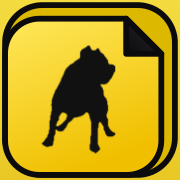
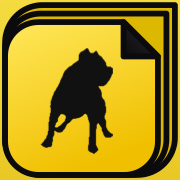
The split pill, his new bubble copy, and two pages behind
Three of his from 2026-08-14.

The bar is a yellow-and-black pill now: "the left side is a yellow bar
with BEASTY in black font and the right side just the way it is." Each
half owns its colours rather than one background being painted over, so
the seam lands exactly between the two words at any size.

It needed the black perimeter he had asked to see on the mark, and not
as decoration — this pill sits on the yellow landing screen, so a yellow
half against a yellow page has no edge at all. Without it the shape read
as a black tag with the word BEASTY floating loose to its left. A ring
rather than a border, so it costs no layout.

The bubble carries his rewrite near enough verbatim, and the domain
moved into it: "eliminate it completely on the yellow pages for each
city... as long as it's on the landing page somewhere", then "put it in
the centre of the drop-down bubble". So BEASTYPAGES.COM is off all
forty-four city sheets and sits centred under a rule at the foot of the
bubble instead. The yellow-Y wordplay went with it; the rule is kept in
styles.css if the domain ever returns to a page.

The gem is the drawn one, not the emoji he typed, for the same reason
the member card uses it: an emoji renders as a different object on every
platform and this one means a membership tier.

And the icon has two pages behind the front one, closer together — his
13:00 note. STEP is 5 rather than 8 for the "closer" half of it. They
[…]

diff --git a/src/apps/dialer/PagesMark.tsx b/src/apps/dialer/PagesMark.tsx
@@ -20,7 +20,7 @@
  */
 
 /**
- * TWO LAYERS INSIDE ONE ICON — not two icons overlapping.
+ * LAYERS INSIDE ONE ICON — not several icons overlapping.
  *
  * The operator's correction: "make it as one icon, like two layers, but still
  * inside one icon." The version before this offset both sheets so their union
@@ -37,16 +37,42 @@
  * sheet's fold turns. The fold then opens onto the layer behind it instead of
  * onto nothing, which is what ties the two devices into one mark.
  */
-const STEP = 8
+const STEP = 5
 
-/** The back layer IS the icon: full bounds, and the only outer silhouette. */
-const BACK = { x: 0, y: 0, size: 100 }
-/** The front sheet, inset from the top and right, flush left and bottom. */
-const FRONT = { x: 0, y: STEP, size: 100 - STEP }
+/**
+ * THREE layers: the page, and two behind it — his 13:00 note, "can you put two
+ * yellow pages behind the front one, just make them somewhat closer to each
+ * other". STEP came down from 8 to 5 for the "closer" half of that.
+ *
+ * The backmost layer fills the full 100x100 and IS the icon's silhouette; each
+ * one in front is inset a further STEP from the top and right, flush left and
+ * bottom. So the stack lives entirely INSIDE one rounded square — the earlier
+ * version offset them outward and the union came out stepped and non-square,
+ * which on a screen full of squircles reads as a picture of three icons rather
+ * than as one.
+ *
+ * Inset on the top and right because that is the corner the front page's fold
+ * turns: the fold then opens onto the layer behind it rather than onto nothing.
+ */
+const LAYERS = 3
+const layerAt = (depth: number) => ({
+  x: 0,
+  y: STEP * depth,
+  size: 100 - STEP * depth,
+})
+/** Depth 0 is the backmost and draws the icon's outline; the last is the page
+    the dog and the fold live on. */
+const FRONT = layerAt(LAYERS - 1)
 
-/** Corner radius, as a proportion of whichever layer is being drawn — so the
-    inner page's corners stay in step with the icon's own rather than being a
-    fraction of a size it no longer has. */
+/**
+ * Corner radius as a proportion of whichever layer is drawn, so an inner page's
+ * corners stay in step with the icon's own.
+ *
+ * SQUARE at the top right on the layers behind — "make the second page have a
+ * right angle as well". It is the one corner of theirs anybody sees, and a
+ * rounded one there makes them read as more app tiles stacked up. A right angle
+ * reads as paper, which is what they are.
+ */
 const RADIUS = 0.22
 
 /**
@@ -85,8 +111,8 @@ function sheetPath(layer: { x: number; y: number; size: number }, cut: boolean):
   const b = y + size
   return [
     `M ${x + rad} ${y}`,
-    cut ? `H ${r - F}` : `H ${r - rad}`,
-    cut ? `L ${r} ${y + F}` : `A ${rad} ${rad} 0 0 1 ${r} ${y + rad}`,
+    cut ? `H ${r - F}` : `H ${r}`,
+    cut ? `L ${r} ${y + F}` : `V ${y}`,
     `V ${b - rad}`,
     `A ${rad} ${rad} 0 0 1 ${r - rad} ${b}`,
     `H ${x + rad}`,
@@ -159,13 +185,18 @@ export function PagesMark({ className }: { className?: string }) {
         </clipPath>
       </defs>
 
-      <path
-        d={sheetPath(BACK, false)}
-        fill="url(#pm-back)"
-        stroke="#0B0B0D"
-        strokeWidth="3.4"
-        strokeLinejoin="round"
-      />
+      {/* Back to front, so each page laps over the one behind it. The last of
+          these is the layer the front page sits directly on. */}
+      {Array.from({ length: LAYERS - 1 }, (_, d) => (
+        <path
+          key={d}
+          d={sheetPath(layerAt(d), false)}
+          fill="url(#pm-back)"
+          stroke="#0B0B0D"
+          strokeWidth="3.4"
+          strokeLinejoin="round"
+        />
+      ))}
 
       <path d={sheetPath(FRONT, true)} fill="url(#pm-tile)" />
 

diff --git a/src/apps/IntroScreen.tsx b/src/apps/IntroScreen.tsx
@@ -8,6 +8,7 @@ import { recentVisits, whenLabel } from '../lib/recents'
 import { favorites, isFavorite, toggleFavorite } from '../lib/favorites'
 import { CameraMark, EnterMark, PANEL_MARKS, ReviewsMark } from './dialer/glyphs'
 import { PagesMark } from './dialer/PagesMark'
+import { Gem } from './MembersApp'
 import { useScramble } from './dialer/useScramble'
 import { KeypadGrid, PersonCircleFill, PhoneFill, RecentsClock, StarFill, VoicemailFill } from './dialer/ios'
 
@@ -491,7 +492,17 @@ export function IntroScreen({ onEnter, onWater, onJoin, onOpen, skipIntro }: Pro
                 aria-expanded={domainOpen}
                 aria-controls="beasty-pages-note"
               >
-                BEASTY PAGES
+                {/*
+                  Split down the middle, his design: "the left side is a yellow
+                  bar with BEASTY in black font and the right side just the way
+                  it is. Basically like a yellow black pill."
+
+                  Two spans rather than one string with a background trick, so
+                  each half owns its own colours and the seam lands exactly
+                  between the words at any font size.
+                */}
+                <span className="dialer-domain-half is-light">BEASTY</span>
+                <span className="dialer-domain-half is-dark">PAGES</span>
               </button>
               {domainOpen && (
                 <>
@@ -508,10 +519,26 @@ export function IntroScreen({ onEnter, onWater, onJoin, onOpen, skipIntro }: Pro
                     onClick={() => setDomainOpen(false)}
                     aria-hidden="true"
                   />
+                  {/*
+                    His revision, 2026-08-14, near enough verbatim — and the
+                    domain moved in here with it. It used to print on every
+                    city's yellow sheet; his call was "eliminate it completely
+                    on the yellow pages for each city... as long as it's on the
+                    landing page somewhere I think that will do", then "put it
+                    in the centre of the drop-down bubble".
+
+                    The gem is the drawn one rather than the emoji character he
+                    typed, for the same reason the member card uses it: an emoji
+                    renders as a different object on every platform, and this one
+                    means a membership tier.
+                  */}
                   <div className="dialer-domain-drop" role="note" id="beasty-pages-note">
-                    A familiar screen filled with small businesses waiting to be discovered —
-                    growing pages of local shops, kitchens and trades across the Bay Area.{' '}
-                    <em>Just tap away.</em>
+                    A familiar screen filled with local gems and viral eats await your discovery.
+                    Explore growing pages of BEASTY{' '}
+                    <Gem size={13} /> affiliates and save money with your support.
+                    <span className="dialer-domain-domain">
+                      BEASTYPAGES.com • Just a tap away<sup>™</sup>
+                    </span>
                   </div>
                 </>
               )}

diff --git a/src/styles.css b/src/styles.css
@@ -7432,26 +7432,57 @@ textarea {
 }
 
 /*
-  Black pill, yellow type, per the operator's spec — and the same left-to-right
-  glow he liked on the old ENTER bar, so it reads as the one tappable thing in
-  the brand block.
+  A YELLOW-AND-BLACK PILL, split down the middle — his design: "the left side is
+  a yellow bar with BEASTY in black font and the right side just the way it is.
+  Basically like a yellow black pill." It keeps the left-to-right glow he liked
+  on the old ENTER bar, so it still reads as the one tappable thing in the
+  brand block.
+
+  The halves carry their own colours rather than the bar carrying one and a
+  pseudo-element painting over half of it. That way the seam lands exactly
+  between the two words at any font size, and the sweep still clips to the
+  pill's own rounded ends.
+
+  No padding on the bar itself: each half pads its own side, so the two colours
+  meet flush in the middle with nothing between them.
+
+  THE OUTLINE IS NOT DECORATION. This pill sits on the yellow landing screen, so
+  a yellow half against a yellow page has no edge at all — the shape reads as a
+  black tag with the word BEASTY floating loose to the left of it. The perimeter
+  is what makes it one object, and it is the same black outline he asked to see
+  on the mark. A ring rather than a border, so adding it costs no layout.
 */
 .dialer-domain-bar {
   position: relative;
   overflow: hidden;
   display: inline-flex;
-  align-items: center;
-  gap: 8px;
+  align-items: stretch;
   min-height: 34px;
-  padding: 0 18px;
+  padding: 0;
   border: 0;
   border-radius: 17px;
   background: #141416;
-  color: #f6d800;
+  box-shadow: 0 0 0 2px #141416;
   font-size: 13px;
   font-weight: 700;
   letter-spacing: 0.14em;
   cursor: pointer;
+}
+
+.dialer-domain-half {
+  display: inline-flex;
+  align-items: center;
+  padding: 0 16px;
+}
+
+.dialer-domain-half.is-light {
+  background: #f6d800;
+  color: #141416;
+}
+
+.dialer-domain-half.is-dark {
+  background: #141416;
+  color: #f6d800;
 }
 
 .dialer-domain-bar::after {
@@ -7488,6 +7519,29 @@ textarea {
   line-height: 1.5;
   text-align: left;
   box-shadow: 0 12px 30px -10px rgba(0, 0, 0, 0.45);
+}
+
+/*
+  The domain, centred on its own line at the foot of the bubble — where he asked
+  for it once it came off the city sheets. Its own line rather than trailing the
+  sentence: it is a claim about the whole product, not the end of a thought
+  about local gems, and centred text after a left-set paragraph only reads as
+  deliberate when it is clearly separate.
+*/
+.dialer-domain-domain {
+  display: block;
+  margin-top: 10px;
+  padding-top: 9px;
+  border-top: 1px solid rgba(255, 255, 255, 0.14);
+  text-align: center;
+  font-weight: 700;
+  letter-spacing: 0.02em;
+  color: #f6d800;
+}
+
+/* The gem sits on the text baseline rather than the line box's. */
+.dialer-domain-drop svg {
+  vertical-align: -2px;
 }
 
 .dialer-domain-drop em {

diff --git a/src/ios/HomeScreen.tsx b/src/ios/HomeScreen.tsx
@@ -656,21 +656,16 @@ export function HomeScreen({ onOpen, receding, hidden, inert, jumpToCity, onJump
                 claim: the operator wants every one of them to read as a page
                 of BEASTYpages.com. */}
             {/*
-              His wordplay, from 2026-08-09: "have it all in a black font and
-              just make Y yellow. It will reflect as BEASTY(ellow)pages.com
-              subconsciously."
+              The domain line is GONE from the city sheets, on his call: "you
+              can eliminate it completely on the yellow pages for each city...
+              as long as it's on the landing page somewhere I think that will
+              do." It lives in the landing page's drop-down bubble now.
 
-              The Y is the hinge of the whole name and it had never been drawn.
-              It gets the brand yellow with a dark outline rather than bare
-              yellow — bare yellow on a yellow sheet is an invisible letter, and
-              a word with a hole in it reads as a font that failed to load
-              rather than as a joke.
+              His yellow-Y wordplay went with it — BEAST(Y)PAGES.COM, the Y in
+              brand yellow — which had been drawn here and nowhere else. If the
+              domain ever comes back to a page, that treatment is in the history
+              alongside the .home-page-domain-y rule kept in styles.css.
             */}
-            {page.yellow && (
-              <p className="home-page-domain">
-                BEAST<span className="home-page-domain-y">Y</span>PAGES.COM
-              </p>
-            )}
             <div
               className="home-grid"
               style={{
